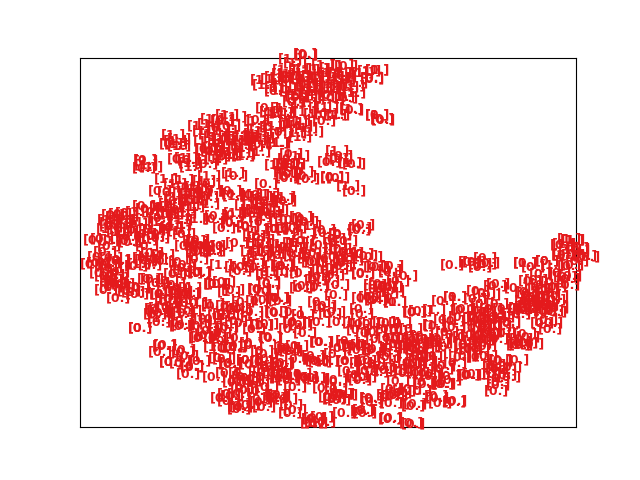
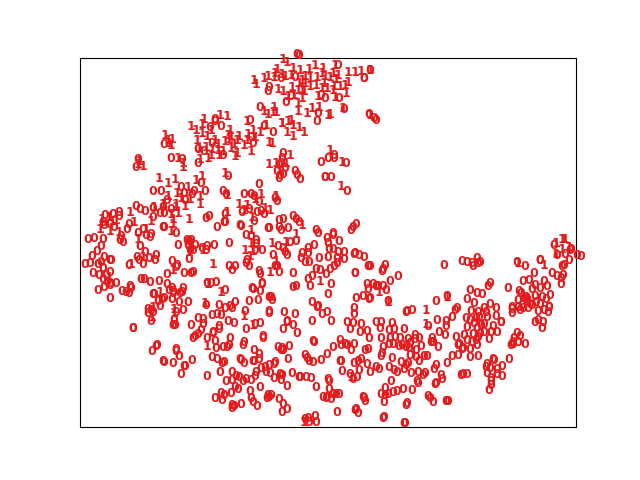
u

Changed region(s): [[0.125, 0.0938, 0.9375, 0.9062]]

diff --git a/adult/main.py b/adult/main.py
@@ -354,11 +354,12 @@ def plot_embedding(X, y , z, title=None):
     x_min, x_max = np.min(X, 0), np.max(X, 0)
     X = (X - x_min) / (x_max - x_min)
 
+    color = 'r', 'b'
     plt.figure()
     ax = plt.subplot(111)
-    for i in range(X.shape[0]):
+    for i, c in zip(range(X.shape[0]), color):
         plt.text(X[i, 0], X[i, 1], str(int(y[i])),
-                 color=plt.cm.Set1(z[i] / 10.),
+                 color=c,
                  fontdict={'weight': 'bold', 'size': 9})
     plt.xticks([]), plt.yticks([])
     if title is not None:
